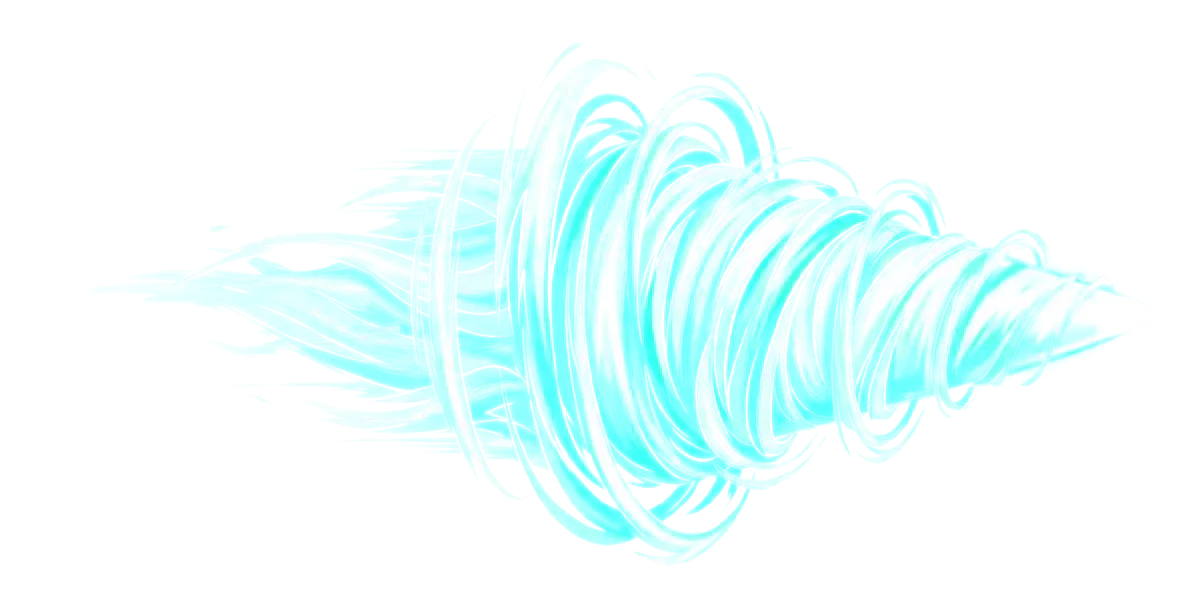
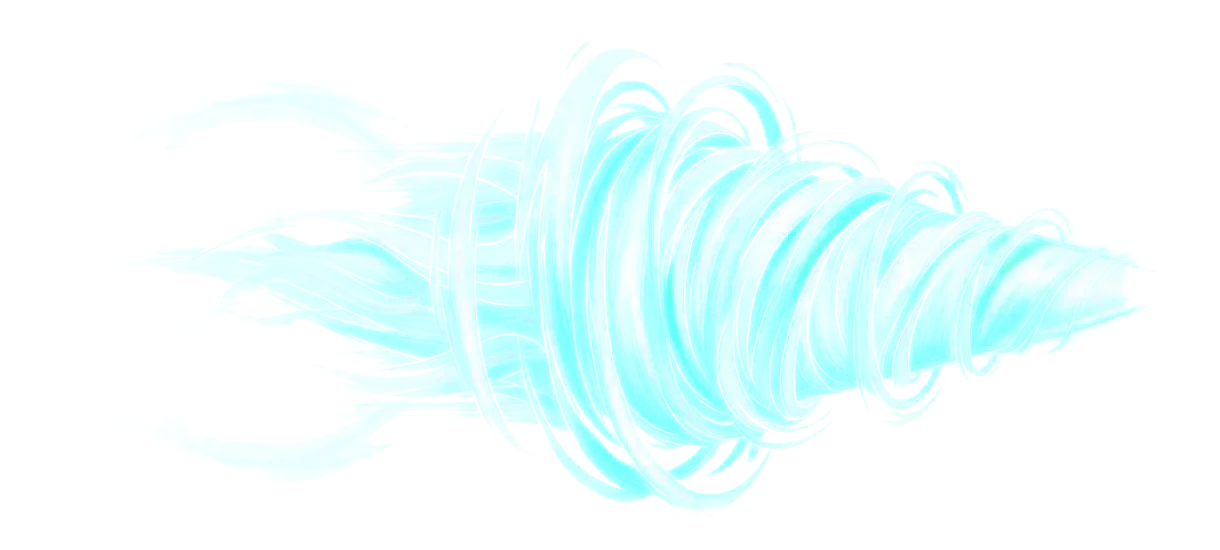
Strike Air de Saber : vraie vidéo du vortex de vent
Claude-Session: https://claude.ai/code/session_01PGfEYr5CwwaFCBAxT1ZDDh

Changed region(s): [[0.2176, 0.1236, 0.9328, 0.9273], [0.8395, 0.3709, 0.8706, 0.4018]]

diff --git a/src/fxvideo.js b/src/fxvideo.js
@@ -1603,63 +1603,83 @@ const FXV = {
  "strikeair_v": [
   {
    "src": "assets/fx/strikeair_v_0.png",
-   "w": 1190,
-   "h": 600
+   "w": 1220,
+   "h": 550
   },
   {
    "src": "assets/fx/strikeair_v_1.png",
-   "w": 1190,
-   "h": 600
+   "w": 1220,
+   "h": 550
   },
   {
    "src": "assets/fx/strikeair_v_2.png",
-   "w": 1190,
-   "h": 600
+   "w": 1220,
+   "h": 550
   },
   {
    "src": "assets/fx/strikeair_v_3.png",
-   "w": 1190,
-   "h": 600
+   "w": 1220,
+   "h": 550
   },
   {
    "src": "assets/fx/strikeair_v_4.png",
-   "w": 1190,
-   "h": 600
+   "w": 1220,
+   "h": 550
   },
   {
    "src": "assets/fx/strikeair_v_5.png",
-   "w": 1190,
-   "h": 600
+   "w": 1220,
+   "h": 550
   },
   {
    "src": "assets/fx/strikeair_v_6.png",
-   "w": 1190,
-   "h": 600
+   "w": 1220,
+   "h": 550
   },
   {
    "src": "assets/fx/strikeair_v_7.png",
-   "w": 1190,
-   "h": 600
+   "w": 1220,
+   "h": 550
   },
   {
    "src": "assets/fx/strikeair_v_8.png",
-   "w": 1190,
-   "h": 600
+   "w": 1220,
+   "h": 550
   },
   {
    "src": "assets/fx/strikeair_v_9.png",
-   "w": 1190,
-   "h": 600
+   "w": 1220,
+   "h": 550
   },
   {
    "src": "assets/fx/strikeair_v_10.png",
-   "w": 1190,
-   "h": 600
+   "w": 1220,
+   "h": 550
   },
   {
    "src": "assets/fx/strikeair_v_11.png",
-   "w": 1190,
-   "h": 600
+   "w": 1220,
+   "h": 550
+  },
+  {
+   "src": "assets/fx/strikeair_v_12.png",
+   "w": 1220,
+   "h": 550
+  },
+  {
+   "src": "assets/fx/strikeair_v_13.png",
+   "w": 1220,
+   "h": 550
+  },
+  {
+   "src": "assets/fx/strikeair_v_14.png",
+   "w": 1220,
+   "h": 550
+  },
+  {
+   "src": "assets/fx/strikeair_v_15.png",
+   "w": 1220,
+   "h": 550
   }
  ]
 };

diff --git a/index.html b/index.html
@@ -21,18 +21,18 @@
 </head>
 <body>
 <canvas id="game" width="960" height="540"></canvas>
-<script src="src/config.js?v=1136x"></script>
-<script src="src/sprites.js?v=1136x"></script>
-<script src="src/sounds.js?v=1136x"></script>
-<script src="src/voices.js?v=1136x"></script>
-<script src="src/fx.js?v=1136x"></script>
-<script src="src/fxvideo.js?v=1136x"></script>
-<script src="src/level.js?v=1136x"></script>
+<script src="src/config.js?v=1137x"></script>
+<script src="src/sprites.js?v=1137x"></script>
+<script src="src/sounds.js?v=1137x"></script>
+<script src="src/voices.js?v=1137x"></script>
+<script src="src/fx.js?v=1137x"></script>
+<script src="src/fxvideo.js?v=1137x"></script>
+<script src="src/level.js?v=1137x"></script>
 <script src="https://unpkg.com/peerjs@1.5.4/dist/peerjs.min.js"></script>
-<script src="src/modes.js?v=1136x"></script>
-<script src="src/endless.js?v=1136x"></script>
-<script src="src/net.js?v=1136x"></script>
-<script src="src/game.js?v=1136x"></script>
-<script src="src/touch.js?v=1136x"></script>
+<script src="src/modes.js?v=1137x"></script>
+<script src="src/endless.js?v=1137x"></script>
+<script src="src/net.js?v=1137x"></script>
+<script src="src/game.js?v=1137x"></script>
+<script src="src/touch.js?v=1137x"></script>
 </body>
 </html>
